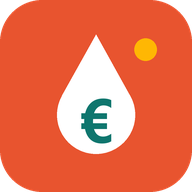
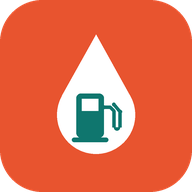
v1.5.1 — brand mark: teal fuel pump in the drop, no sun dot

Changed region(s): [[0.375, 0.4688, 0.6562, 0.75], [0.6875, 0.1875, 0.8438, 0.3438]]

diff --git a/web/index.html b/web/index.html
@@ -59,7 +59,7 @@
   --amber:  #F59E0B;
   --red:    #EF4444;
   --coral:  #E8542F;   /* brand primary — CTA / cluster markers */
-  --sun:    #FFB703;   /* brand accent */
+  --sun:    #FFB703;   /* spare brand accent (not in the mark) */
   --cream:  #FFF8EF;   /* brand warm surface */
   --tab-h:  58px;
   --safe-b: env(safe-area-inset-bottom, 0px);
